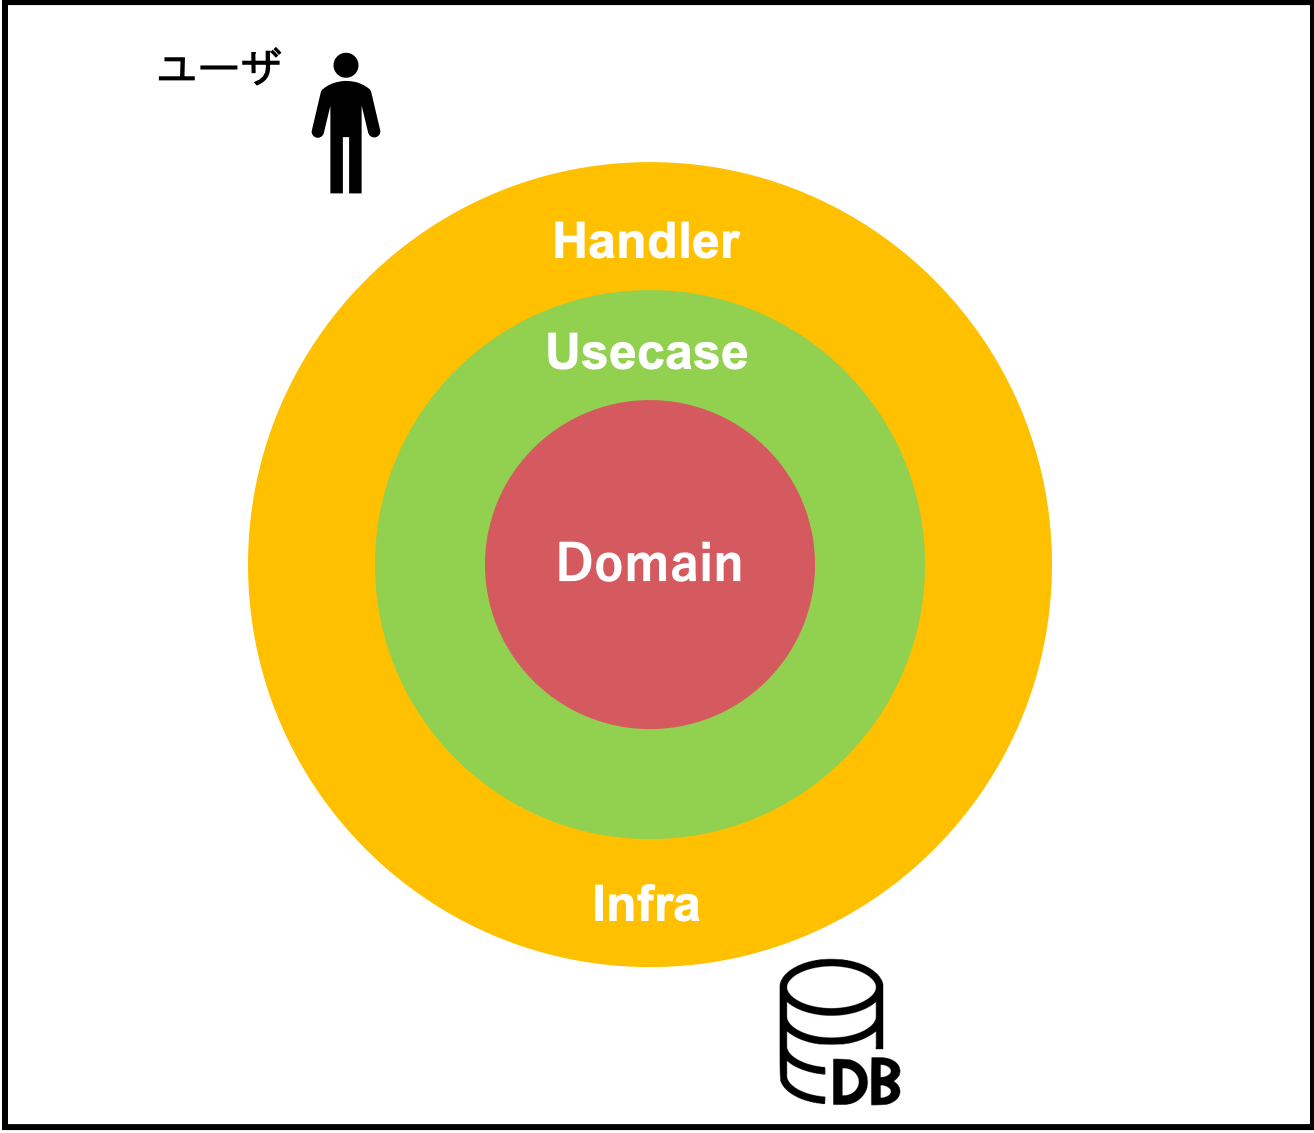
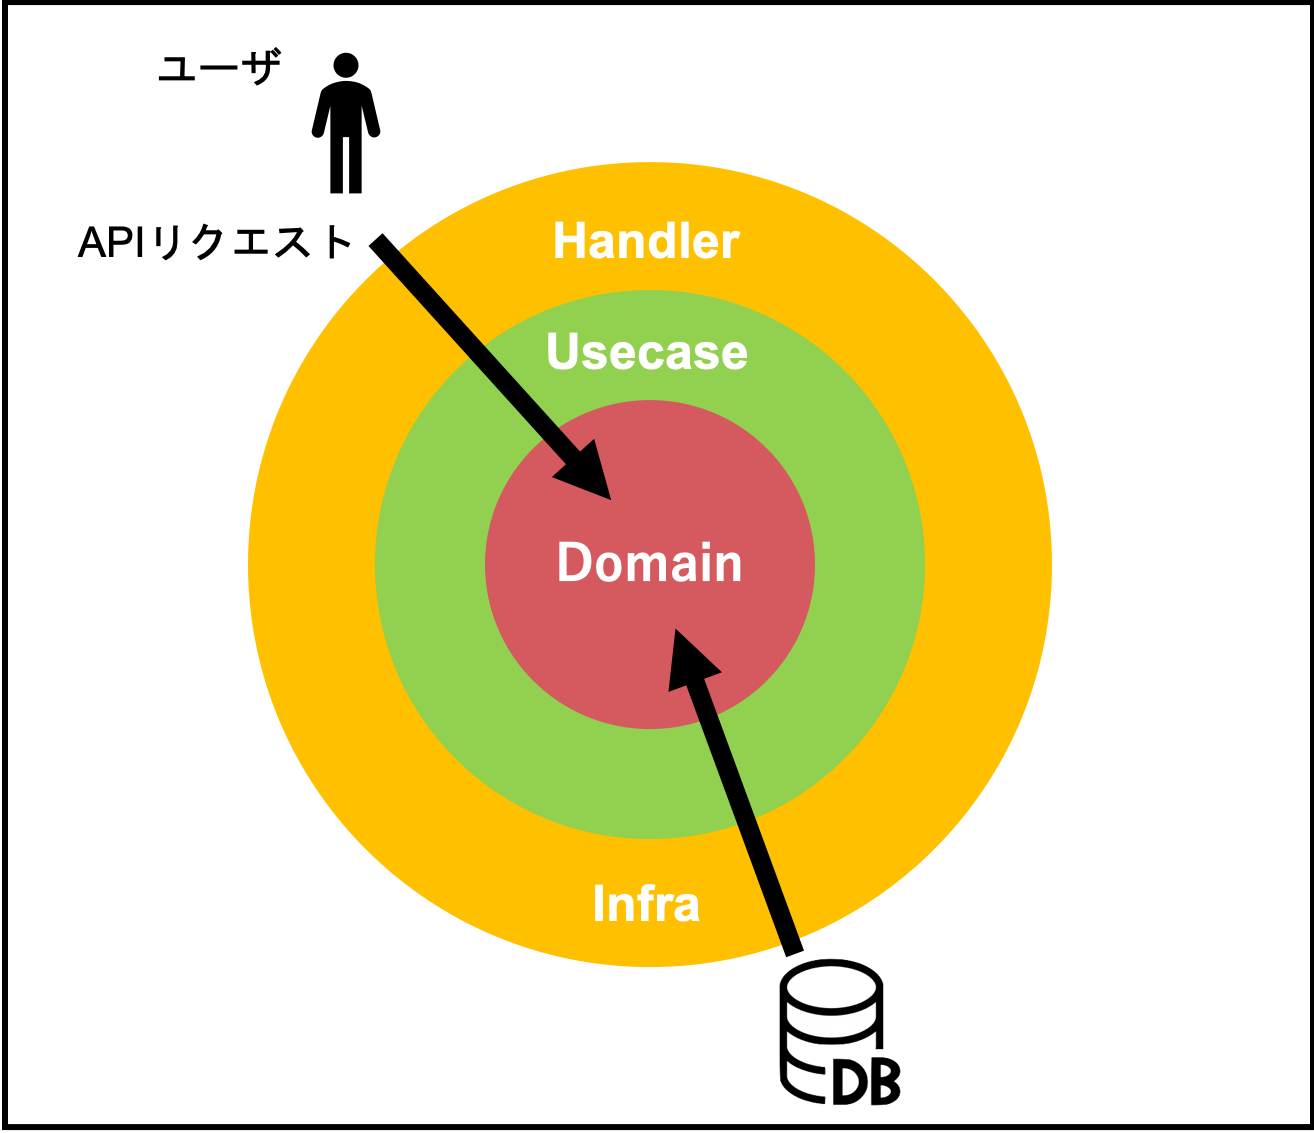
【公開】記事コード：go_web_api

Changed region(s): [[0.4992, 0.556, 0.624, 0.865], [0.312, 0.2471, 0.468, 0.4325], [0.0624, 0.1853, 0.312, 0.2471]]

diff --git a/content/blog/go_web_api.md b/content/blog/go_web_api.md
@@ -7,8 +7,8 @@ featured = "go_web_api/featured.png"
 featuredalt = "画像がどこかへ逝ってしまったようだ…"
 featuredpath = "date"
 linktitle = ""
-title = "【Golang】DDD を意識して Web API を構築してみる"
-type = "posta"
+title = "【Golang + レイヤアーキテクチャ】DDD を意識して Web API を実装してみる"
+type = "post"
 
 +++
 
@@ -22,26 +22,28 @@ type = "posta"
 ---
 
 前回の記事で Golang のディレクトリ構成についていろいろ調べた結果、<br>
-[こちらの資料](https://www.slideshare.net/pospome/go-80591000) が参考になりそうだったので、<br>
-今回はそちらを参考に Golang で Web API を作っていきたいと思います。
+[こちらの資料](https://www.slideshare.net/pospome/go-80591000) がとても分かりやすかったので、<br>
+今回はこちらを参考に Golang で Web API を作っていきたいと思います。
+
+なお、DDD，レイヤアーキテクチャ の要素が強いため、都度説明を入れています。<br>
+（ほぼレイヤアーキテクチャの勉強になっています）
 
 <br>
 
 ## 環境
 
 - MacOS Mojave 10.14.4
-- Golang 1.12
-- Docker for Mac Version 2.0.0.3
+- Golang 1.12.5
 
 <br>
 
 なお、今回は、Gin や Mux などといったフレームワークは使わず、<br>
-API周りに関して追加するパッケージは、 httprouter のみでやっていこうと思います。
+httprouter のみで薄く作っていこうと思います。
 
 Mux を使った実装は [僕の前のブログで紹介している](https://yyh-gl.hatenablog.com/entry/2019/02/08/195310) のでよければどうぞ。
 
 ---
-# 採用アーキテクチャ：レイヤーアーキテクチャ
+# 採用アーキテクチャ：レイヤアーキテクチャ
 ---
 
 [参考記事内](https://www.slideshare.net/pospome/go-80591000) で紹介されているのは <u>レイヤアーキテクチャ</u> をベースに <br>
@@ -54,7 +56,7 @@ Mux を使った実装は [僕の前のブログで紹介している](https://y
 
 <br>
 
-レイヤーアーキテクチャ における各層の依存関係 について説明を加えておきます。
+レイヤアーキテクチャ における各層の依存関係 について説明を加えておきます。
 
 依存関係の図は下記のとおりです。
 
@@ -63,17 +65,64 @@ Mux を使った実装は [僕の前のブログで紹介している](https://y
 矢印は依存の方向を示しています。<br>
 例えば、上図だと Handler層 は Usecase層 の処理を利用することを意味します。
 
-レイヤーアーキテクチャ に限らず、クリーンアーキテクチャ などでも同じですが、
-依存は中心に向かっていく方向にのみ存在します。
+レイヤアーキテクチャ に限らず、クリーンアーキテクチャ などでも同じですが、<br>
+依存は中心方向に <u>のみ</u> 存在します。
 
 この図だと、中心がどこか分かりづらいので、少し違う視点の図を下記に示します。
 
 <img src="http://localhost:1313/tech-blog/img/tech-blog/2019/06/go_web_api/dependency_direction1.png" width="600">
 
-例えば、ユーザから APIリクエスト があった場合、
+すべての依存が中心に向かっています。これが理想状態です。
+
+<br>
+
+ここで、ユーザから APIリクエスト があった場合を考えてみます。
 
 <img src="http://localhost:1313/tech-blog/img/tech-blog/2019/06/go_web_api/dependency_direction2.png" width="600">
 
+
+ユーザからのリクエストは Handler で受け取られ、 Usecase を使って処理が行われます。<br>
+さらに、Usecase は Domain を使って処理を行います。<br>
+ここまでは処理が中心に進んでいる、つまり依存は中心に向かって発生しています。
+
+しかし、たいていのサービスって DB を使用しますよね。<br>
+つまり、ドメインからユースケースを介して、Infra を利用することになります。
+
+…依存が外側を向いてしまいました。<br>
+これは許されていません。ではどうするか。
+
+<u>[依存性逆転の法則](https://medium.com/eureka-engineering/go-dependency-inversion-principle-8ffaf7854a55)</u> を使います。
+
+<br>
+
+<u>依存性逆転の法則 とは、 interfaceに依存させることで依存の方向を逆にすること</u> です。（個人的見解）
+
+もう少し詳しく説明します。<br>
+まず、 ① Domain層 において、 DB とのやりとりを interface で定義しておきます。<br>
+interface （後ほどコード内にて repository として出てきます） 自体は実装を持たないので、<br>
+どこにも依存していません。
+
+次に、 ② Infra層 から Domain層 に定義した interface （後ほどコード内にて persistence として出てきます） を実装します。
+
+<br>
+
+①, ② の2ステップを踏むことで、まず Domain は interface に対して 処理をお願いするだけでよくなります。
+先ほども言ったとおり interface は 実装を持たないので依存関係はありません。
+
+interface 自体は実装を持ちませんが、<br>
+Infra が interface の実装を行っているので、ちゃんとDBアクセスして処理を行うことができます。
+
+ここで、 Infra は interface を実装しているので、依存が interface 、すなわち Domain に向いています。 
+
+<img src="http://localhost:1313/tech-blog/img/tech-blog/2019/06/go_web_api/dependency_direction3.png" width="600">
+
+依存性が逆転し、すべての依存関係が中心に向かうようになりましたね。
+
+<br>
+
+ここは難しいところなので、まだいまいち理解できないかもしれません。
+
+以降、実際のコードを紹介していくので、コードに当てはめながら考えてみてください。
 
 ---
 # 完成物
@@ -112,18 +161,18 @@ api-server-with-go-kit-and-ddd
 ├── go.mod
 ├── go.sum
 ├── handler
-├── infra
 │   └── router.go  // ルーティングの設定
+├── infra
 └── usecase
 ```
 
-`go run cmd/api/main.go` で最低限動作する状態にしてあります。
+ブランチ `1` 上で `go run cmd/api/main.go` すると動作する状態にしてあります。
 
-`http://localhost:3000` にアクセスしてもらえば、 Welcome と表示されるはずです。
+`http://localhost:3000` にアクセスしてもらえば、「Welcome!」と表示されるはずです。
 
 
 ---
-# 書籍一覧を取得するAPIを作る
+# 書籍一覧を取得するAPIを作る（ブランチ：2）
 ---
 
 ## Domain 層
@@ -229,7 +278,7 @@ func (book BookPersistence) GetAll() ([]*model.Book, error) {
 ```
 
 なお、 実際には DB にアクセスし、データを持ってくるようにします。<br>
-DB には後ほど接続できるようにするので、ここではモックデータを返すようにしておきます。
+ここでは一旦モックデータを返すようにしておきます。
 
 <br>
 
@@ -271,10 +320,6 @@ import (
 )
 
 type BookUsecase struct {}
-
-type IBookUsecase interface {
-	GetAll() ([]*model.Book, error)
-}
 
 func (bookUsecase BookUsecase) GetAll() ([]*model.Book, error) {
 	var books []*model.Book
@@ -342,7 +387,7 @@ import (
 func BookIndex(w http.ResponseWriter, _ *http.Request, _ httprouter.Params) {
 	var books []*model.Book
 	var err error
-	books, err = usecase.IBookUsecase(usecase.BookUsecase{}).GetAll()
+	books, err = usecase.BookUsecase{}.GetAll()
 	if err != nil {
 		// TODO: エラーハンドリングをきちんとする
 		http.Error(w, "Internal Server Error", 500)
@@ -356,4 +401,63 @@ func BookIndex(w http.ResponseWriter, _ *http.Request, _ httprouter.Params) {
 		return
 	}
 }
+
 ```
+<br>
+
+依存関係は以下のとおりです。
+
+<img src="http://localhost:1313/tech-blog/img/tech-blog/2019/06/go_web_api/dependency_handler.png" width="600">
+
+Usecase を使用するので、Usecase層に依存しています。
+
+
+---
+# テスト
+---
+
+ここまでの実装で 書籍一覧 取得リクエスト を送れるようになりました。
+
+`GET http://localhost:3000/books` してみましょう。
+
+2つの書籍データが返ってくるはずです。
+
+```json
+[
+    {
+        "id": 1,
+        "title": "Test1",
+        "author": "Tester1",
+        "issued_at": "2019-06-13T23:50:51.888139+09:00",
+        "created_at": "2019-06-13T23:50:51.888139+09:00",
+        "updated_at": "2019-06-13T23:50:51.888139+09:00"
+    },
+    {
+        "id": 2,
+        "title": "Test2",
+        "author": "Tester2",
+        "issued_at": "2019-06-13T23:50:51.888139+09:00",
+        "created_at": "2019-06-13T23:50:51.88814+09:00",
+        "updated_at": "2019-06-13T23:50:51.88814+09:00"
+    }
+]
+```
+
+<br>
+
+まだ実装していないエンドポイントがあったり、DB 接続してなかったり、未完成なところが多いですが、<br>
+DDD や レイヤアーキテクチャ が絡んできて、結構重い内容になってきたので <br>
+一旦ここで切ろうと思います。後日、続編記事を出したいと思います。
+
+---
+# まとめ
+---
+
+[前々回の記事](https://yyh-gl.github.io/tech-blog/blog/go_project_template/) でディレクトリ構成を考え、<br>
+今回ようやく実装してみました。
+
+ディレクトリ構成が DDD を意識していることもあり、<br>
+DDD や レイヤアーキテクチャ の話がメインっぽくなりましたが、<br>
+DDD も勉強中だったので、僕的にはちょうど良い勉強になりました。
+
+今後は、エヴァンス本で「どうドメインモデルに落とし込んでいくのか」ってところを勉強していこうと思います。
